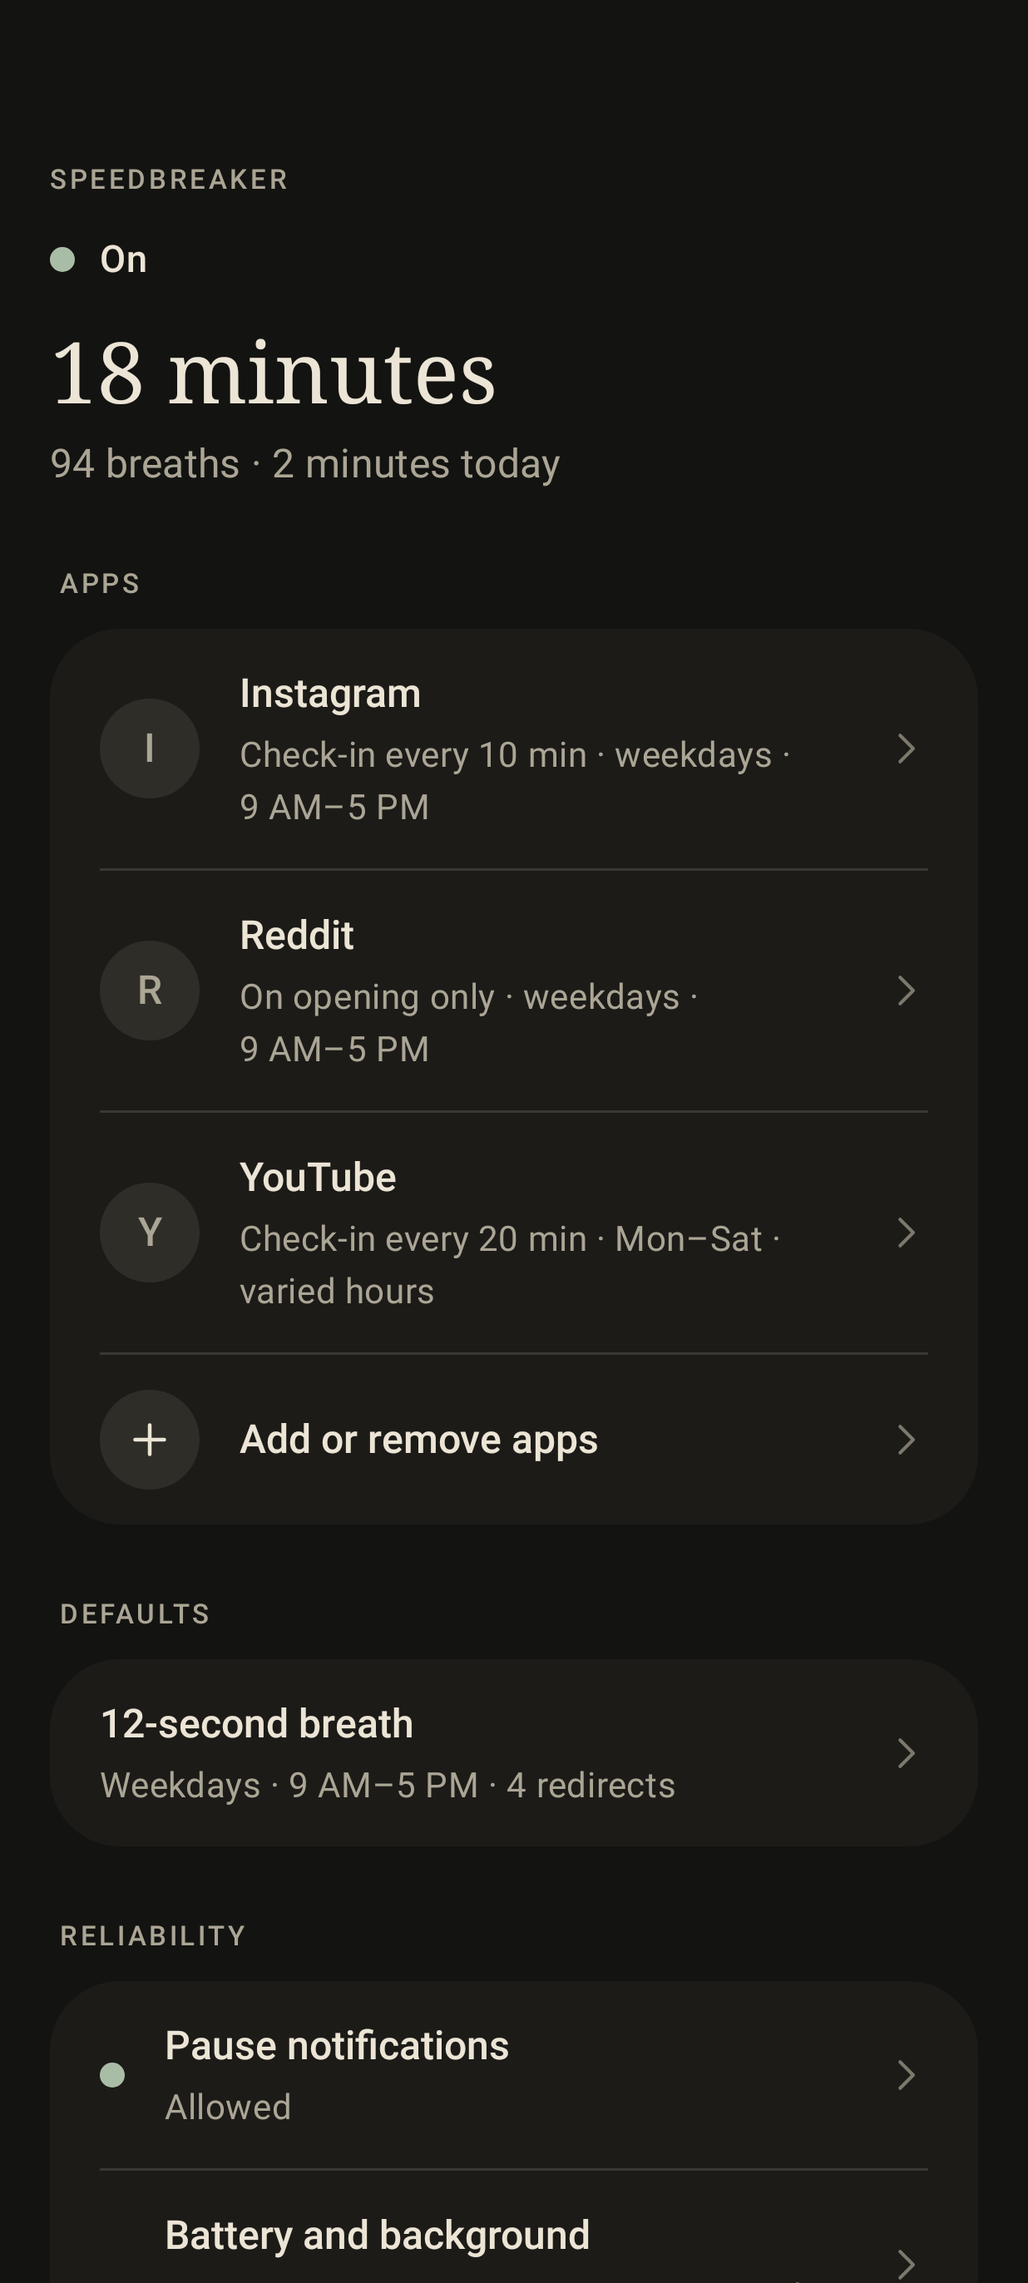
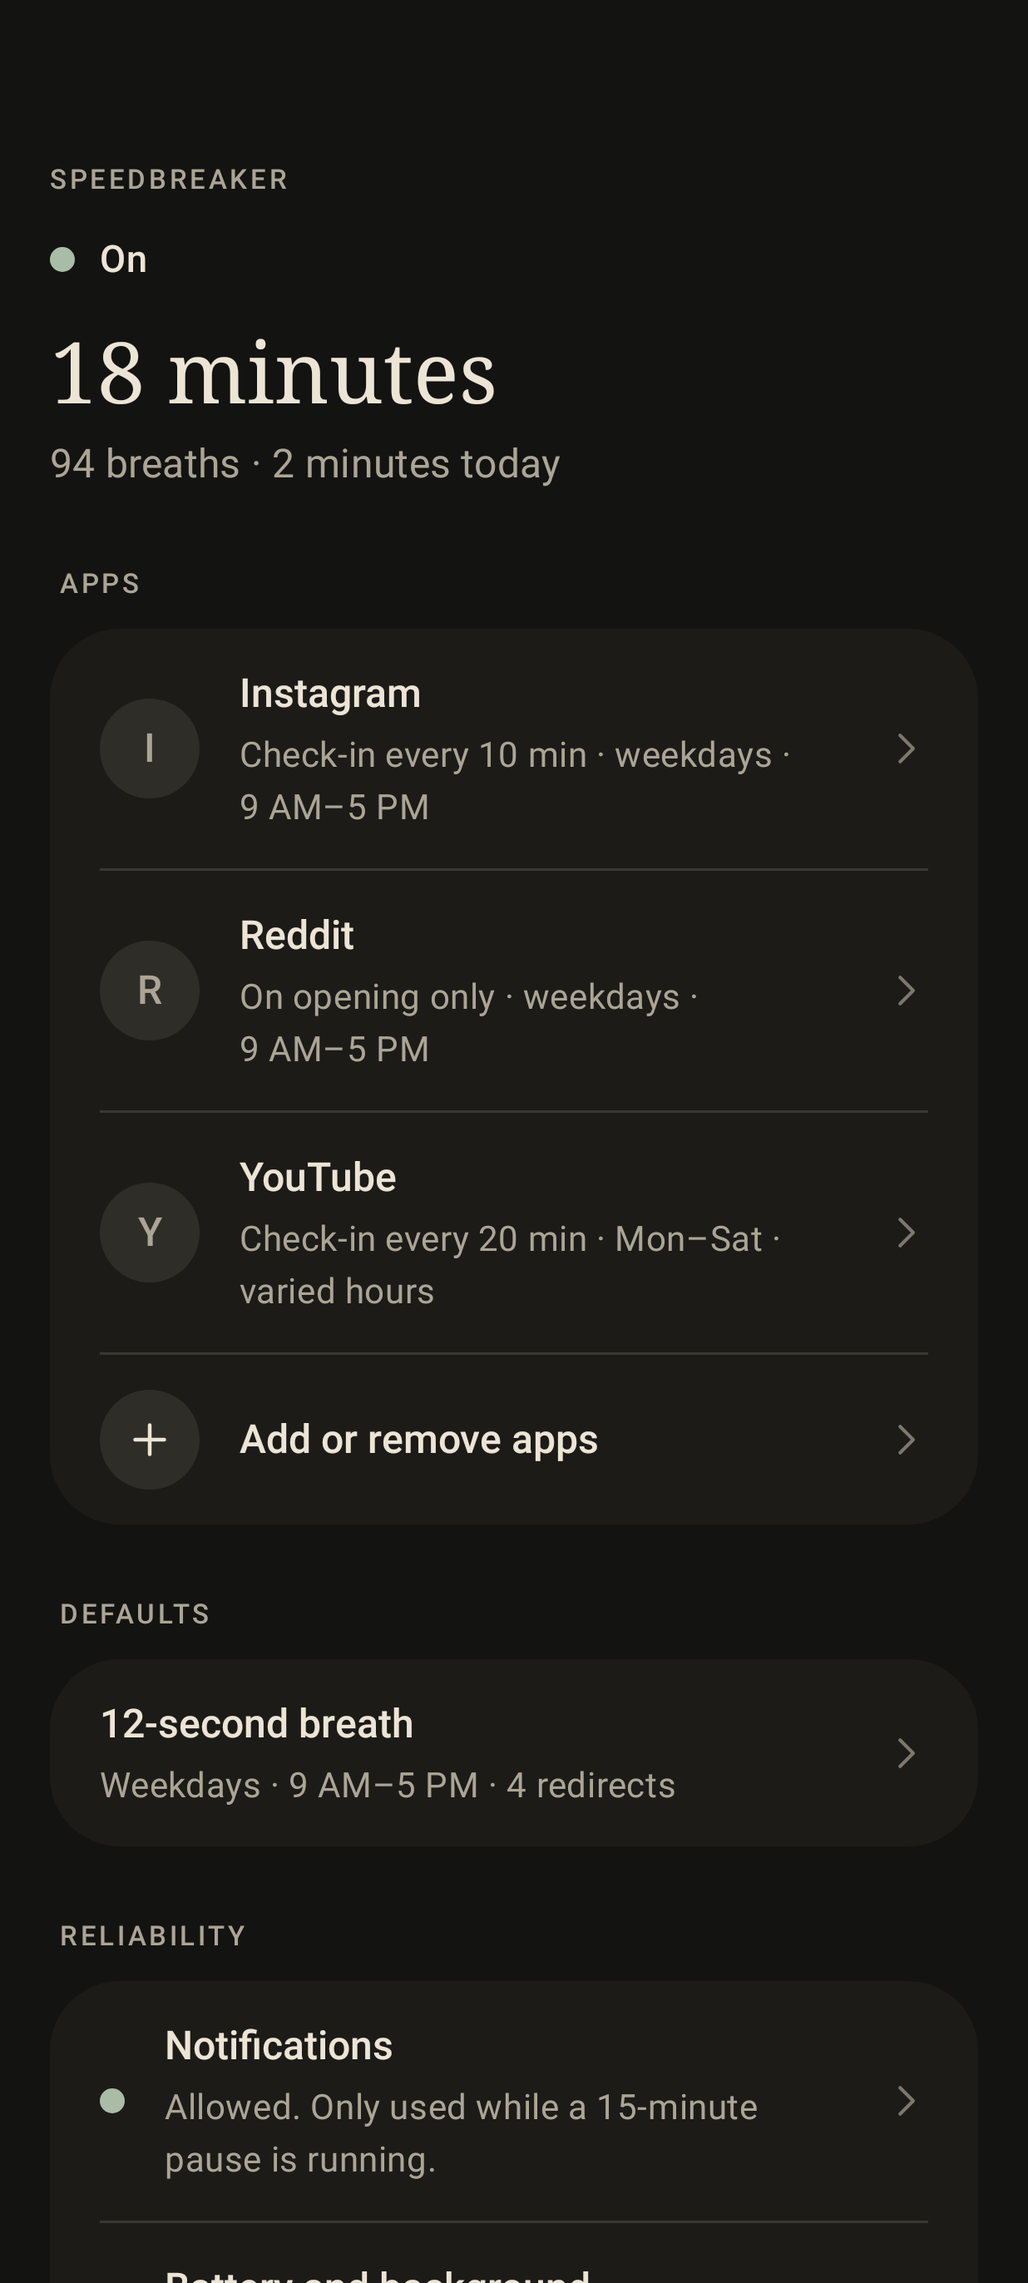
One meaning for pause, and plain words throughout (#74)
* fix: one meaning for pause, and plain words where a builder's word was

A breath is now always called a breath; Pause means only the 15-minute
break from breaths. Corrects the app page, which promised a 60-second
return window where the engine uses 10 seconds. The app picker gains a Done
button and says choices save as you tap.

Not yet built or run.

Refs #66

* fix: notifications off is a choice, not a fault; walk leaves the picker by Done

* fix: apply review findings to the wording pass

- The 10-second return only applies after Continue; say so.
- Notification title leads with the app's name again ('Paused for X').
- The setup guide no longer calls a breath a pause.
- 'Not allowed' rather than 'Off' for notifications, which is also true
  when only the pause channel is muted.
- Shorter check-in summary; CONTEXT.md records the breath/Pause split.
- Walk: answer the emulator's 'isn't responding' dialog when it is the
  window on top.

* docs: regenerate the screenshots the wording pass changed

Rendered by the gallery test in hosted CI.

---------

diff --git a/app/src/main/java/dev/burooj/speedbreaker/presentation/HomeScreens.kt b/app/src/main/java/dev/burooj/speedbreaker/presentation/HomeScreens.kt
@@ -221,7 +221,7 @@ internal fun StorageFailureScreen(error: String?) {
     Page(title = "Speedbreaker is off", onBack = null, eyebrow = "Speedbreaker") {
         Notice(
             tone = NoticeTone.Repair,
-            text = error ?: "Local settings aren’t available, so protection can’t start.",
+            text = error ?: "Local settings aren’t available, so Speedbreaker can’t start.",
         )
         Text(
             "Restart the app after resolving the storage problem.",
@@ -393,19 +393,20 @@ internal fun HomeScreen(
 
         Section(title = "Reliability") {
             NavRow(
-                title = "Pause notifications",
+                title = "Notifications",
                 summary = if (notificationsAllowed) {
-                    "Allowed"
+                    "Allowed. Only used while a 15-minute pause is running."
                 } else {
-                    "Needed to start a pause; End now is also here"
+                    "Not allowed. The Pause 15 min button needs them."
                 },
                 onClick = onNotifications,
                 leading = {
                     StatusDot(
+                        // Off is a choice here, not a fault: only the optional Pause needs them.
                         if (notificationsAllowed) {
                             MaterialTheme.colorScheme.tertiary
                         } else {
-                            MaterialTheme.colorScheme.error
+                            MaterialTheme.colorScheme.outline
                         },
                     )
                 },
@@ -413,7 +414,8 @@ internal fun HomeScreen(
             RowDivider()
             NavRow(
                 title = "Battery and background",
-                summary = "On Samsung, set Battery to Unrestricted",
+                summary = "If breaths stop appearing after a while, allow background use. " +
+                    "On Samsung, set Battery to Unrestricted.",
                 onClick = onOpenAppInfo,
                 leading = { StatusDot(Color.Transparent) },
             )
@@ -543,7 +545,7 @@ private fun StatusPanel(
         Protection.Off -> Column(verticalArrangement = Arrangement.spacedBy(16.dp)) {
             Notice(
                 tone = NoticeTone.Repair,
-                text = "Speedbreaker’s Accessibility switch is off, so nothing is paused. Your settings are kept.",
+                text = "Speedbreaker is switched off in Accessibility, so no breaths appear. Your settings are kept.",
             )
             AccessibilityActions(onEnableAccessibility, onOpenAppInfo)
         }
@@ -566,8 +568,7 @@ private fun StatusPanel(
         )
         Protection.CallActive -> Notice(
             tone = NoticeTone.Calm,
-            text = "Breaths are suspended while Android reports a call or communication audio. " +
-                "They resume when it ends.",
+            text = "No breaths while Android reports a call or call audio. They come back when it ends.",
         )
         // With apps chosen, the header already says Speedbreaker is on.
         Protection.On -> if (!hasApps) {

diff --git a/app/src/main/java/dev/burooj/speedbreaker/presentation/EditorScreens.kt b/app/src/main/java/dev/burooj/speedbreaker/presentation/EditorScreens.kt
@@ -82,7 +82,7 @@ internal fun DefaultsScreen(
     Section(
         title = "Schedule",
         footnote = if (settings.schedule == null) {
-            "Pauses apply at all hours."
+            "Breaths happen at all hours."
         } else {
             "Outside these hours, chosen apps open freely."
         },
@@ -124,7 +124,7 @@ internal fun AppSettingsScreen(
         Section(title = "While you use it") {
             ToggleRow(
                 title = "Check in again",
-                summary = "Another pause after continuous use",
+                summary = "Another breath after a while in the app",
                 checked = policy.continuousSeconds != null,
                 onCheckedChange = { enabled ->
                     onPolicyTransform { current ->
@@ -156,7 +156,7 @@ internal fun AppSettingsScreen(
             title = "Schedule",
             footnote = when (scheduleMode) {
                 0 -> "Following the default: ${scheduleSummary(settings.schedule, use24Hour).inSentence()}."
-                1 -> "Pauses apply at all hours, whatever the default says."
+                1 -> "Breaths happen at all hours, whatever the default says."
                 else -> "Replaces the default schedule for this app."
             },
         ) {
@@ -214,12 +214,13 @@ internal fun AppSettingsScreen(
         }
 
         Text(
-            text = "Breath length, the 60-second return window, and two daily pauses are shared by every app.",
+            text = "Breath length is set in Defaults. Each app gets two 15-minute pauses a day. " +
+                "After you continue, stepping out for up to 10 seconds doesn’t start a new breath.",
             style = MaterialTheme.typography.bodySmall,
             color = MaterialTheme.colorScheme.onSurfaceVariant,
             modifier = Modifier.padding(horizontal = 4.dp),
         )
-        QuietAction("Stop pausing $label", onRemove)
+        QuietAction("Stop breaths for $label", onRemove)
     }
 }
 

diff --git a/app/src/test/java/dev/burooj/speedbreaker/presentation/HomeStatusTest.kt b/app/src/test/java/dev/burooj/speedbreaker/presentation/HomeStatusTest.kt
@@ -89,7 +89,7 @@ class HomeStatusTest {
     @Test
     fun statusNote_putsRestingAheadOfNotifications() {
         assertNull(homeStatusNote(null, notificationsAllowed = true))
-        assertEquals("pauses need notifications", homeStatusNote(null, notificationsAllowed = false))
+        assertEquals("Pause 15 min needs notifications", homeStatusNote(null, notificationsAllowed = false))
         assertEquals("resting until 9 AM", homeStatusNote("9 AM", notificationsAllowed = false))
     }
 
@@ -98,7 +98,7 @@ class HomeStatusTest {
         assertEquals("On", homeStatusText(null))
         assertEquals("On · resting until 9 AM", homeStatusText("resting until 9 AM"))
         assertEquals("Speedbreaker is on", homeStatusDescription(null))
-        assertEquals("Speedbreaker is on, pauses need notifications", homeStatusDescription("pauses need notifications"))
+        assertEquals("Speedbreaker is on, Pause 15 min needs notifications", homeStatusDescription("Pause 15 min needs notifications"))
     }
 
     private fun setup(protection: Protection, phoneAllowed: Boolean = false, hasApps: Boolean = false, hasBreathed: Boolean = false) =

diff --git a/app/src/main/java/dev/burooj/speedbreaker/presentation/PickerScreens.kt b/app/src/main/java/dev/burooj/speedbreaker/presentation/PickerScreens.kt
@@ -61,11 +61,13 @@ internal fun AppPickerScreen(
     val pinned = remember { selected }
     PickerFrame(
         title = "Choose apps",
-        subtitle = "Pick the apps that pull at you. Your launcher, keyboards, and safety-critical apps " +
-            "can’t be chosen. Choosing one of your redirects removes it from your alternatives.",
+        subtitle = "Pick the apps that pull at you. Each choice is saved as you tap. Your home screen, " +
+            "keyboards, the phone app, and Android Settings aren’t listed. An app chosen here stops " +
+            "being a redirect.",
         query = query,
         onQuery = { query = it },
         onBack = onBack,
+        footer = { PrimaryAction("Done", onBack, Modifier.fillMaxWidth()) },
     ) {
         val matches = apps.filter { it.matches(query) }
         val (chosen, others) = matches.partition { it.packageName in pinned }

diff --git a/app/src/main/java/dev/burooj/speedbreaker/presentation/ActivePauses.kt b/app/src/main/java/dev/burooj/speedbreaker/presentation/ActivePauses.kt
@@ -31,7 +31,7 @@ internal fun ActivePausesSection(
     if (active.isEmpty()) return
     val catalog = appCatalog()
     val timeFormat = DateFormat.getTimeFormat(LocalContext.current)
-    Section(title = "Active pauses", footnote = "Ending a pause doesn’t return its daily token.") {
+    Section(title = "Active pauses", footnote = "No breaths for these apps until the time shown. Ending one early still uses it up.") {
         active.entries.sortedBy { catalog.label(it.key).lowercase() }
             .forEachIndexed { index, (packageName, pause) ->
                 key(packageName) {

diff --git a/app/src/test/java/dev/burooj/speedbreaker/presentation/PickerReachabilityTest.kt b/app/src/test/java/dev/burooj/speedbreaker/presentation/PickerReachabilityTest.kt
@@ -67,6 +67,7 @@ class PickerReachabilityTest {
         list.performScrollToNode(hasText(apps.last().label) and isToggleable())
         compose.onNode(hasText(apps.last().label) and isToggleable())
             .assertIsDisplayed().assertIsOff().performClick().assertIsOn()
+        compose.onNodeWithText("Done").assertIsDisplayed()
         compose.onNodeWithContentDescription("Back").assertIsDisplayed().performClick()
         compose.runOnIdle { assertTrue(wentBack) }
     }

diff --git a/app/src/main/java/dev/burooj/speedbreaker/presentation/ScheduleEditor.kt b/app/src/main/java/dev/burooj/speedbreaker/presentation/ScheduleEditor.kt
@@ -141,7 +141,7 @@ internal fun WeekEditor(
             Text(
                 text = when {
                     offDays.isEmpty() -> "Every day has hours."
-                    offDays.size == 7 -> "No days yet — nothing is paused."
+                    offDays.size == 7 -> "No days yet, so no breaths."
                     else -> "Off ${daysSummary(offDays).inSentence()}: apps open freely."
                 },
                 style = MaterialTheme.typography.bodyMedium,

diff --git a/app/src/main/java/dev/burooj/speedbreaker/presentation/HomeStatus.kt b/app/src/main/java/dev/burooj/speedbreaker/presentation/HomeStatus.kt
@@ -27,7 +27,7 @@ internal fun restingUntil(settings: Settings, nowEpochMs: Long, zone: ZoneId, us
  */
 internal fun homeStatusNote(restingUntil: String?, notificationsAllowed: Boolean): String? = when {
     restingUntil != null -> "resting until $restingUntil"
-    !notificationsAllowed -> "pauses need notifications"
+    !notificationsAllowed -> "Pause 15 min needs notifications"
     else -> null
 }
 

diff --git a/tools/first-run/walk.py b/tools/first-run/walk.py
@@ -86,6 +86,12 @@ class Walk:
                     if box:
                         left, top, right, bottom = map(int, box.groups())
                         found.append((label, ((left + right) // 2, (top + bottom) // 2), node.get("class", "")))
+                # The emulator's "isn't responding" dialog can already be up when the walk starts.
+                wait = next((centre for label, centre, _ in found if label == "Wait"), None)
+                if wait and any("isn't responding" in label for label, _, _ in found):
+                    self.shell("input", "tap", str(wait[0]), str(wait[1]))
+                    time.sleep(3)
+                    continue
                 return found
             time.sleep(1)
         raise RuntimeError("Could not read the screen.")
@@ -369,7 +375,7 @@ class Walk:
         self.expect(target is not None, f"No known harmless app in the picker: {picker['text']}")
         self.tap(f"^{target[0]}$", scrolls=6)
         self.shot("app-chosen", f"{target[0]} chosen.")
-        self.shell("input", "keyevent", "KEYCODE_BACK")
+        self.tap(r"^Done$")
         # Reading the picker switched the service off for a moment; give it time to return.
         time.sleep(6)
         self.shot("home-on", "Home with setup finished.", read=False)

diff --git a/docs/getting-started.md b/docs/getting-started.md
@@ -61,7 +61,7 @@ calling apps do not report incoming calls to Android and may not be detected.
 
 ## Choose and configure apps
 
-Tap **Choose apps** and select the apps you want to pause. Search is available;
+Tap **Choose apps** and select the apps you want a breath before. Search is available;
 changes to the target selection take effect as you select or deselect apps.
 Speedbreaker, the launcher, keyboards, and safety-related system apps are
 excluded from the picker. Nothing is selected on a fresh installation.
@@ -76,16 +76,16 @@ continuous use, and active hours all day, every day. No redirects are configured
 | To change… | Open… | What to expect |
 | --- | --- | --- |
 | Breath length | **Defaults → Breath** | 8–60 seconds, shared by all chosen apps. The first eight seconds always hold the overlay. |
-| Repeat check-ins | An app → **Check in again** | Turn off, or choose an interval from 1 to 120 minutes. Opening pauses still apply. |
+| Repeat check-ins | An app → **Check in again** | Turn off, or choose an interval from 1 to 120 minutes. A breath on opening still applies. |
 | Redirect destinations | **Defaults → Redirects** | Choose one to four eligible apps and save, or leave redirects empty. Chosen target apps cannot be redirects. |
 | Active hours | **Defaults → Schedule → Scheduled** | One active window per day, including overnight windows. Review the initial weekday 9 AM–5 PM schedule. |
 | One app's hours | An app → **Schedule** | Follow the default, stay always on, or set custom hours that replace the default. |
 | One app's redirects | An app → **Redirects → Custom** | Replace the default set with one to four apps, or leave the custom set empty to show none for that app. Choose Default to inherit again. |
-| Stop pausing one app | An app → **Stop pausing…** | Remove it from the chosen apps. |
+| Stop breaths for one app | An app → **Stop breaths for…** | Remove it from the chosen apps. |
 
 Schedules use the phone's local time. Days without a scheduled window are off.
 Outside the effective schedule, the app opens freely; entering an active window
-while it is visible starts a pause.
+while it is visible starts a breath.
 
 ## During a breath
 
@@ -106,7 +106,7 @@ opening breath. Leave and redirects end the session immediately.
 A fifteen-minute pause appears under **Active pauses** on Speedbreaker’s home
 screen, with **End now** for each app. Its notification provides the same action
 and opens Speedbreaker when tapped. If you dismiss the notification, the in-app
-control remains available; ending a pause does not restore its daily token. Ending or
+control remains available; ending one early still uses it up. Ending or
 expiring it resumes enforcement immediately if the target is visible, or on its
 next opening otherwise. Allowances reset each local day. An active pause keeps
 its original expiry even if it crosses midnight.
@@ -142,11 +142,11 @@ a quick return after Continue can also resume a session without another breath.
 On Samsung, use **Reliability → Battery and background** to open Speedbreaker's
 app info, then set **Battery → Unrestricted** if available. Background behavior
 varies by phone; extended idle reliability has not been verified on release
-1.0.1. If it keeps missing pauses, report the phone model and exact conditions.
+1.0.1. If breaths keep going missing, report the phone model and exact conditions.
 
 ### Pause is unavailable
 
-Open **Reliability → Pause notifications** and allow Speedbreaker's
+Open **Reliability → Notifications** and allow Speedbreaker's
 notifications, including the active-pauses channel. Pause is unavailable when
 notifications are blocked, or when that app has used both daily allowances.
 Turning notifications off also ends active pauses when the service observes

diff --git a/docs/design/calm-ui.md b/docs/design/calm-ui.md
@@ -43,7 +43,7 @@ overlay keeps its existing `BreakerOverlay` signature.
   states are repairs and read as the statuses below.
 - **Home** is also the setup checklist. While breaths work and apps are chosen,
   it opens with the eyebrow, a moss dot and "On" (plus "resting until 9 AM" when
-  every app is outside its schedule, or "pauses need notifications"), and the
+  every app is outside its schedule, or "Pause 15 min needs notifications"), and the
   breathing total as the one large serif number ("18 minutes", then "94 breaths ·
   2 minutes today"; "No breaths yet" before the first). Otherwise its title is the
   status ("Off for now", "Needs attention", "Ready when you are"), followed by the
@@ -61,7 +61,7 @@ overlay keeps its existing `BreakerOverlay` signature.
   toggle to type the time instead. An end of 12 AM means end of day.
 - **App** — check-in toggle and interval, schedule Default / Always on /
   Custom, redirects Default / Custom, a note on what stays global, and
-  "Stop pausing <app>".
+  "Stop breaths for <app>".
 - **Pickers** are full screens with search; the redirect picker shows the four
   slots filling as you choose, with Save available for zero to four destinations
   (owner correction [#9](https://github.com/beejsbj/speedbreaker/issues/9)).
@@ -77,8 +77,8 @@ These are presentation-level, but they change what a tap does:
    which covers the same minutes.
 3. Per-app Custom schedule starts from the global schedule when one exists.
 4. The redirect picker is a full-screen page instead of a dialog; Clear remains.
-5. "Pause notifications" asks for permission once, then opens system settings.
-6. App settings gained "Stop pausing <app>" (same effect as unchecking it in
+5. "Notifications" asks for permission once, then opens system settings.
+6. App settings gained "Stop breaths for <app>" (same effect as unchecking it in
    the picker).
 7. The app and overlay are always dark.
 8. The per-day Copy action is gone; shared hours are one group instead.

diff --git a/README.md b/README.md
@@ -69,7 +69,7 @@ If Android says the Accessibility setting is restricted, open Speedbreaker's
 **App info → ⋮ → Allow restricted settings**, confirm your identity, and return
 to Accessibility. Menu names vary by phone. Keep Play Protect enabled.
 
-Allow **Pause notifications** to use the fifteen-minute Pause option. On Samsung,
+Allow notifications (**Reliability → Notifications**) to use the fifteen-minute Pause option. On Samsung,
 check **Reliability → Battery and background** for background-operation guidance.
 See the [setup and troubleshooting guide](docs/getting-started.md) for details.
 
@@ -84,7 +84,7 @@ Android SDK build-tools. The certificate SHA-256 should be
[1 lines of base64/hex data omitted]
 original Android 8 signer. A checksum confirms the file matches; it is not an audit.
 
-## Know how the pause behaves
+## Know how a breath behaves
 
 **The first eight seconds intentionally hold the breathing screen.** Home, Back,
 and Recents cannot dismiss it during that time. At eight seconds, Leave,
